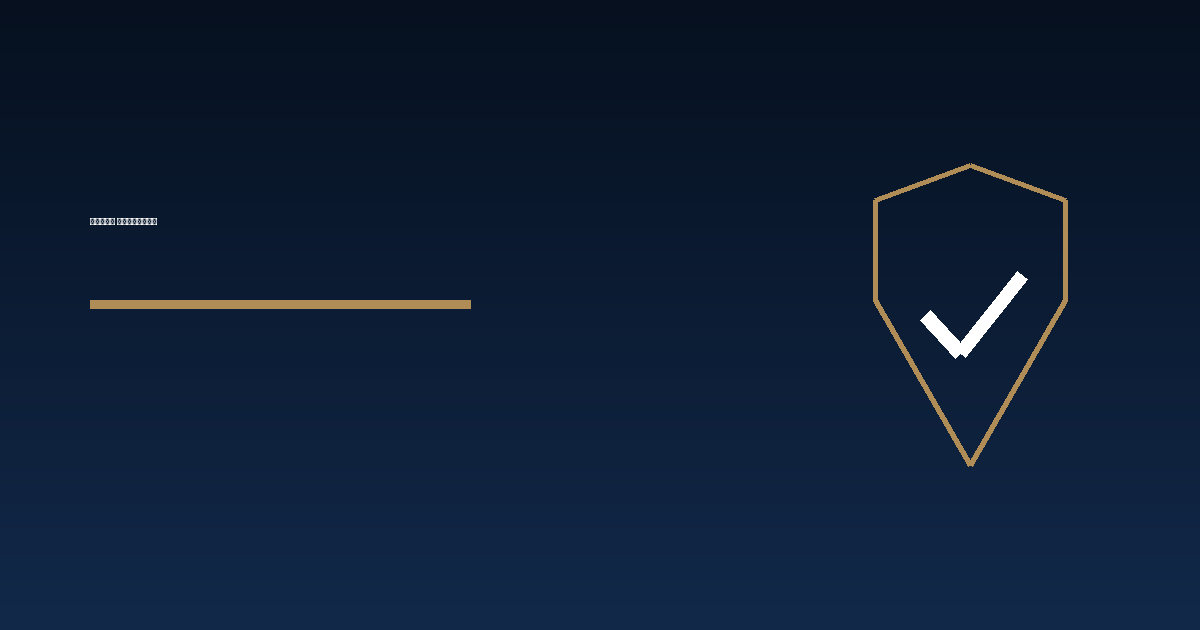
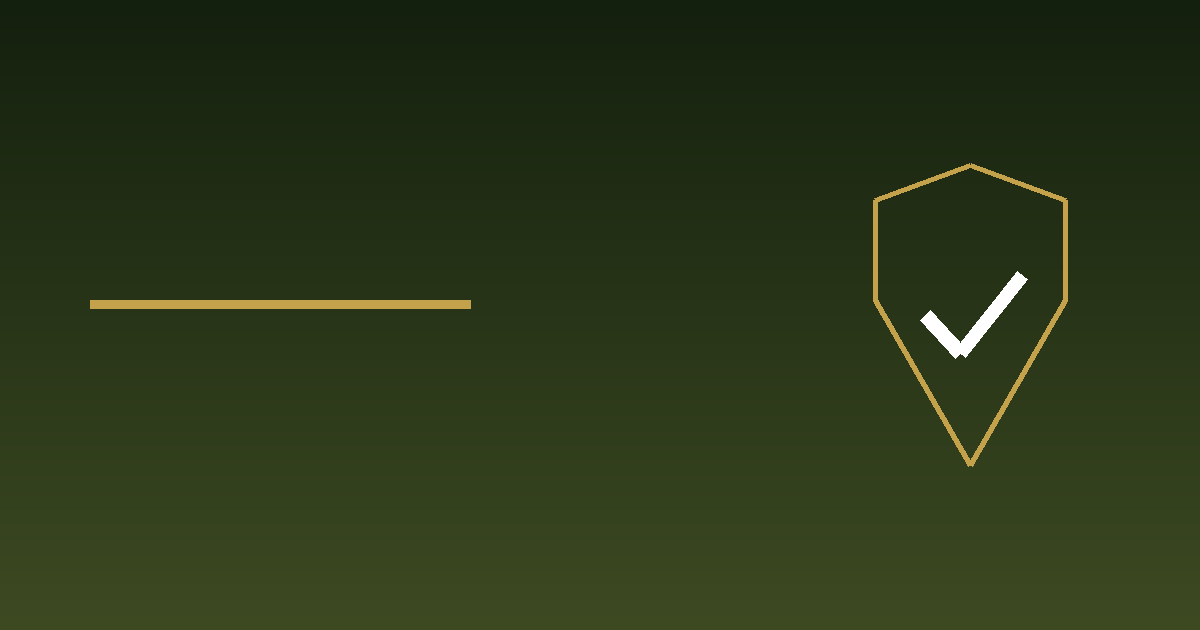
Update: Uploading the latest version (v3)

diff --git a/assets/css/main.css b/assets/css/main.css
@@ -1,16 +1,17 @@
 :root {
-  /* ــــ الهوية: كحلي بحري عميق + ذهبي برونزي مطفي (طابع طيران/VIP) ــــ */
-  --ink: #06101F;            /* كحلي شبه أسود — أعمق نقطة */
-  --royal: #12294A;          /* الكحلي البحري الأساسي */
-  --royal-700: #0C1E38;      /* كحلي أغمق للتدرّجات */
-  --royal-300: #8FA6C4;      /* كحلي فاتح للنصوص على خلفية داكنة (تباين آمن) */
-  --royal-50: #EEF2F8;       /* كحلي فاتح جداً للخلفيات */
-  --amber: #B08D57;          /* الذهبي البرونزي المطفي — لون التمييز (خلفيات/حدود) */
-  --amber-600: #866538;      /* برونزي غامق للنصوص والروابط على خلفية فاتحة (تباين آمن) */
-  --amber-700: #6E5230;      /* أغمق للـ hover */
-  --amber-50: #F7F1E8;       /* بيج برونزي فاتح جداً للخلفيات */
-  --slate: #56637A;          /* رمادي للنصوص الثانوية */
-  --line: #E1E6EE; --wash: #F6F8FB; --white: #FFFFFF; --ok: #1C7C54; --warn: #96753F;
+  /* ــــ الهوية: الأخضر الزيتوني الفخم + الذهبي الملكي + الكريمي (طابع سعودي رسمي) ــــ */
+  --ink: #14200E;            /* زيتوني شبه أسود — أعمق نقطة */
+  --royal: #3D4A22;          /* الزيتوني الداكن الأساسي */
+  --royal-700: #2E3818;      /* زيتوني أغمق للتدرّجات */
+  --royal-300: #C2CEA6;      /* زيتوني فاتح للنصوص على خلفية داكنة (تباين آمن) */
+  --royal-50: #F0F2E6;       /* زيتوني فاتح جداً للخلفيات */
+  --amber: #C4A24C;          /* الذهبي الملكي — لون التمييز (خلفيات/حدود) */
+  --amber-light: #D8BB6A;    /* ذهبي فاتح للنص على الزيتوني الداكن (تباين آمن) */
+  --amber-600: #8A6E24;      /* ذهبي غامق للنصوص والروابط على خلفية فاتحة (تباين آمن) */
+  --amber-700: #6E5620;      /* أغمق للـ hover */
+  --amber-50: #F7F1DF;       /* ذهبي فاتح جداً للخلفيات */
+  --slate: #565A48;          /* رمادي مخضرّ للنصوص الثانوية */
+  --line: #E6E7DB; --wash: #FBF8F0; --white: #FFFFFF; --ok: #4A6B1E; --warn: #8A6E24;
   --font: 'Almarai', system-ui, -apple-system, 'Segoe UI', sans-serif;
   --step--1: clamp(.78rem, .75rem + .15vw, .86rem);
   --step-0: clamp(.95rem, .92rem + .2vw, 1.05rem);
@@ -22,7 +23,7 @@
   --shadow-sm: 0 1px 2px rgba(11,18,32,.06), 0 2px 8px rgba(11,18,32,.04);
   --shadow: 0 4px 12px rgba(11,18,32,.07), 0 12px 32px rgba(11,18,32,.06);
   --shadow-lg: 0 10px 30px rgba(30,58,138,.12), 0 30px 70px rgba(11,18,32,.10);
-  --ring: 0 0 0 3px rgba(176,141,87,.35); --wrap: 1180px; --ease: cubic-bezier(.22,.61,.36,1);
+  --ring: 0 0 0 3px rgba(196,162,76,.35); --wrap: 1180px; --ease: cubic-bezier(.22,.61,.36,1);
 }
 * { box-sizing: border-box; margin: 0; padding: 0; }
 html { scroll-behavior: smooth; -webkit-text-size-adjust: 100%; }
@@ -36,8 +37,8 @@ ul, ol { list-style: none; }
 h1, h2, h3, h4 { line-height: 1.35; font-weight: 800; letter-spacing: -.01em; }
 h1 { font-size: var(--step-4); } h2 { font-size: var(--step-3); } h3 { font-size: var(--step-1); }
 p { color: var(--slate); } strong { color: var(--ink); font-weight: 700; }
-.eyebrow { display: inline-flex; align-items: center; gap: .5rem; font-size: var(--step--1); font-weight: 700; letter-spacing: .04em; color: var(--amber-600); background: var(--amber-50); padding: .4rem .85rem; border-radius: 999px; border: 1px solid rgba(176,141,87,.28); }
-.eyebrow--light { color: #FFD9BE; background: rgba(176,141,87,.14); border-color: rgba(176,141,87,.3); }
+.eyebrow { display: inline-flex; align-items: center; gap: .5rem; font-size: var(--step--1); font-weight: 700; letter-spacing: .04em; color: var(--amber-600); background: var(--amber-50); padding: .4rem .85rem; border-radius: 999px; border: 1px solid rgba(196,162,76,.28); }
+.eyebrow--light { color: var(--amber-light); background: rgba(196,162,76,.16); border-color: rgba(196,162,76,.35); }
 .lede { font-size: var(--step-1); color: var(--slate); line-height: 1.8; }
 .topbar { background: var(--ink); color: #C9D3E6; font-size: var(--step--1); padding: .5rem 0; }
 .topbar__row { display: flex; justify-content: space-between; align-items: center; gap: 1rem; flex-wrap: wrap; }
@@ -67,8 +68,8 @@ p { color: var(--slate); } strong { color: var(--ink); font-weight: 700; }
 .mobile-nav a:last-of-type { border-bottom: 0; }
 .btn { display: inline-flex; align-items: center; justify-content: center; gap: .55rem; padding: .85rem 1.4rem; border-radius: 12px; font-weight: 800; font-size: .95rem; border: 1px solid transparent; cursor: pointer; transition: transform .18s var(--ease), box-shadow .18s, background .18s; font-family: var(--font); line-height: 1; }
 .btn:hover { transform: translateY(-2px); } .btn:active { transform: translateY(0); }
-.btn--primary { background: var(--amber); color: var(--ink); box-shadow: 0 6px 18px rgba(176,141,87,.34); }
-.btn--primary:hover { background: var(--amber-600); color: var(--white); box-shadow: 0 10px 26px rgba(176,141,87,.42); }
+.btn--primary { background: var(--amber); color: var(--ink); box-shadow: 0 6px 18px rgba(196,162,76,.34); }
+.btn--primary:hover { background: var(--amber-600); color: var(--white); box-shadow: 0 10px 26px rgba(196,162,76,.42); }
 .btn--royal { background: var(--royal); color: var(--white); box-shadow: 0 6px 18px rgba(30,58,138,.28); }
 .btn--royal:hover { background: var(--royal-700); }
 .btn--ghost { background: var(--white); color: var(--royal); border-color: var(--line); box-shadow: var(--shadow-sm); }
@@ -76,11 +77,11 @@ p { color: var(--slate); } strong { color: var(--ink); font-weight: 700; }
 .btn--onDark { background: rgba(255,255,255,.1); color: var(--white); border-color: rgba(255,255,255,.25); }
 .btn--onDark:hover { background: rgba(255,255,255,.18); }
 .btn--sm { padding: .6rem 1rem; font-size: .85rem; } .btn--block { width: 100%; }
-.hero { position: relative; overflow: hidden; background: radial-gradient(1100px 520px at 85% -10%, rgba(176,141,87,.16), transparent 60%), radial-gradient(900px 500px at 5% 110%, rgba(147,169,224,.22), transparent 60%), linear-gradient(160deg, var(--ink) 0%, var(--royal-700) 55%, var(--royal) 100%); color: var(--white); padding: clamp(3rem, 7vw, 5.5rem) 0 clamp(3.5rem, 8vw, 6rem); }
+.hero { position: relative; overflow: hidden; background: radial-gradient(1100px 520px at 85% -10%, rgba(196,162,76,.16), transparent 60%), radial-gradient(900px 500px at 5% 110%, rgba(147,169,224,.22), transparent 60%), linear-gradient(160deg, var(--ink) 0%, var(--royal-700) 55%, var(--royal) 100%); color: var(--white); padding: clamp(3rem, 7vw, 5.5rem) 0 clamp(3.5rem, 8vw, 6rem); }
 .hero::after { content: ''; position: absolute; inset: 0; pointer-events: none; opacity: .5; background-image: linear-gradient(rgba(255,255,255,.045) 1px, transparent 1px), linear-gradient(90deg, rgba(255,255,255,.045) 1px, transparent 1px); background-size: 46px 46px; mask-image: radial-gradient(circle at 50% 40%, #000 20%, transparent 78%); -webkit-mask-image: radial-gradient(circle at 50% 40%, #000 20%, transparent 78%); }
 .hero__grid { position: relative; z-index: 2; display: grid; grid-template-columns: 1.15fr .85fr; gap: clamp(2rem, 5vw, 4rem); align-items: center; }
 .hero h1 { color: var(--white); margin: 1.1rem 0 1rem; }
-.hero h1 .accent { color: var(--amber); position: relative; white-space: nowrap; }
+.hero h1 .accent { color: var(--amber-light); position: relative; white-space: nowrap; }
 .hero h1 .accent::after { content: ''; position: absolute; inset-inline: 0; bottom: -.12em; height: .1em; background: var(--amber); border-radius: 4px; opacity: .55; }
 .hero p { color: #C6D2EA; font-size: var(--step-1); }
 .hero__cta { display: flex; gap: .75rem; flex-wrap: wrap; margin-top: 1.8rem; }
@@ -91,7 +92,7 @@ p { color: var(--slate); } strong { color: var(--ink); font-weight: 700; }
 .credential {
   position: relative; max-width: 380px; margin-inline: auto;
   background: linear-gradient(155deg, rgba(255,255,255,.07), rgba(255,255,255,.02));
-  border: 1px solid rgba(176,141,87,.35); border-radius: 18px;
+  border: 1px solid rgba(196,162,76,.35); border-radius: 18px;
   padding: 2rem 1.8rem; backdrop-filter: blur(6px); -webkit-backdrop-filter: blur(6px);
   box-shadow: 0 24px 60px rgba(0,0,0,.34);
 }
@@ -104,13 +105,13 @@ p { color: var(--slate); } strong { color: var(--ink); font-weight: 700; }
 .credential__badge {
   width: 52px; height: 52px; border-radius: 13px; flex-shrink: 0;
   display: grid; place-items: center; color: var(--amber);
-  background: rgba(176,141,87,.14); border: 1px solid rgba(176,141,87,.4);
+  background: rgba(196,162,76,.14); border: 1px solid rgba(196,162,76,.4);
 }
 .credential__title b { display: block; color: #fff; font-size: 1.05rem; font-weight: 800; line-height: 1.4; }
-.credential__title span { display: block; color: var(--amber); font-size: .72rem; font-weight: 700; letter-spacing: .12em; margin-top: .15rem; }
+.credential__title span { display: block; color: var(--amber-light); font-size: .72rem; font-weight: 700; letter-spacing: .12em; margin-top: .15rem; }
 .credential__list { display: grid; gap: .75rem; margin-top: 1.1rem; }
 .credential__item { display: flex; align-items: center; gap: .65rem; color: #E4EAF3; font-size: .9rem; font-weight: 600; }
-.credential__item svg { color: var(--amber); flex-shrink: 0; }
+.credential__item svg { color: var(--amber-light); flex-shrink: 0; }
 .section { padding: clamp(3rem, 7vw, 5.5rem) 0; }
 .section--wash { background: var(--wash); }
 .section--ink { background: var(--ink); color: var(--white); }
@@ -145,7 +146,7 @@ p { color: var(--slate); } strong { color: var(--ink); font-weight: 700; }
 .doclist { display: grid; gap: .6rem; }
 .doc { display: grid; grid-template-columns: auto 1fr; gap: .8rem; align-items: start; background: var(--white); border: 1px solid var(--line); border-radius: 12px; padding: .95rem 1.1rem; font-size: .93rem; }
 .doc__tick { color: var(--ok); flex-shrink: 0; margin-top: .15rem; }
-.doc--note { background: var(--amber-50); border-color: rgba(176,141,87,.28); }
+.doc--note { background: var(--amber-50); border-color: rgba(196,162,76,.28); }
 .doc--note .doc__tick { color: var(--amber-600); }
 .faq { display: grid; gap: .75rem; }
 .faq__item { background: var(--white); border: 1px solid var(--line); border-radius: var(--radius); overflow: hidden; transition: border-color .2s, box-shadow .2s; }
@@ -160,7 +161,7 @@ p { color: var(--slate); } strong { color: var(--ink); font-weight: 700; }
 .trust__item strong { display: block; font-size: var(--step-2); color: var(--royal); font-weight: 800; }
 .trust__item span { font-size: var(--step--1); color: var(--slate); font-weight: 700; }
 .cta-band { background: linear-gradient(140deg, var(--royal) 0%, var(--ink) 100%); border-radius: var(--radius-lg); padding: clamp(2rem, 5vw, 3.2rem); color: var(--white); text-align: center; position: relative; overflow: hidden; }
-.cta-band::before { content: ''; position: absolute; width: 380px; height: 380px; border-radius: 50%; background: radial-gradient(circle, rgba(176,141,87,.22), transparent 65%); top: -140px; inset-inline-end: -100px; }
+.cta-band::before { content: ''; position: absolute; width: 380px; height: 380px; border-radius: 50%; background: radial-gradient(circle, rgba(196,162,76,.22), transparent 65%); top: -140px; inset-inline-end: -100px; }
 .cta-band > * { position: relative; z-index: 2; }
 .cta-band h2 { color: var(--white); margin-bottom: .7rem; }
 .cta-band p { color: #C6D2EA; margin-bottom: 1.6rem; }
@@ -215,7 +216,7 @@ p { color: var(--slate); } strong { color: var(--ink); font-weight: 700; }
 .crumbs span[aria-current] { color: var(--ink); font-weight: 700; }
 .crumbs .sep { opacity: .45; }
 .pagehead { background: linear-gradient(150deg, var(--ink) 0%, var(--royal-700) 100%); color: var(--white); padding: clamp(2.2rem, 5vw, 3.6rem) 0; position: relative; overflow: hidden; }
-.pagehead::after { content: ''; position: absolute; width: 300px; height: 300px; border-radius: 50%; background: radial-gradient(circle, rgba(176,141,87,.2), transparent 65%); top: -110px; inset-inline-end: -60px; }
+.pagehead::after { content: ''; position: absolute; width: 300px; height: 300px; border-radius: 50%; background: radial-gradient(circle, rgba(196,162,76,.2), transparent 65%); top: -110px; inset-inline-end: -60px; }
 .pagehead > * { position: relative; z-index: 2; }
 .pagehead h1 { color: var(--white); margin: .9rem 0 .7rem; }
 .pagehead p { color: #C6D2EA; max-width: 660px; }
@@ -250,6 +251,8 @@ p { color: var(--slate); } strong { color: var(--ink); font-weight: 700; }
   .wrap, .wrap-narrow { width: 100% !important; max-width: 100% !important; margin: 0 !important; padding: 0 !important; }
   .section { padding: 0 !important; margin: 0 0 8pt !important; }
   .pagehead { padding: 0 !important; margin-bottom: 6pt !important; }
+  .pagehead h1, .pagehead p, .hero h1, .hero p, .hero h1 .accent,
+  .section--ink h2, .section--ink p, .card--feature h3, .card--feature p { color: #111 !important; }
 
   /* ترويسة المكتب أعلى الورقة */
   .print-only { display: block !important; }
@@ -268,7 +271,13 @@ p { color: var(--slate); } strong { color: var(--ink); font-weight: 700; }
   }
 
   /* العناوين */
-  h1 { font-size: 18pt !important; margin: 0 0 6pt !important; }
+  /* منع قص العناوين: إلغاء overflow و nowrap و ستايلات inline */
+  .pagehead, .section, .wrap, .wrap-narrow, .card, .credential, .hero,
+  div, section, article, aside, main { overflow: visible !important; }
+  * { white-space: normal !important; text-overflow: clip !important; max-width: none !important; }
+
+  h1, h2, h3, h4, .lede, .prose p, .prose li, strong { color: #111 !important; }
+  h1 { font-size: 18pt !important; margin: 0 0 6pt !important; font-weight: 800 !important; }
   h2 { font-size: 14pt !important; margin: 12pt 0 5pt !important; border: 0 !important; padding: 0 !important; }
   h3 { font-size: 12pt !important; margin: 8pt 0 3pt !important; }
   p, li { font-size: 11pt !important; }

diff --git a/assets/js/main.js b/assets/js/main.js
@@ -97,7 +97,57 @@
     input.addEventListener('keydown', function (e) { if (e.key === 'Escape') { box.classList.remove('show'); input.blur(); } });
   }
 
-  window.printPage = function () { window.print(); };
+  /* ————— الطباعة: تبني مستنداً نظيفاً مضموناً على أي جهاز ————— */
+  window.printPage = function () {
+    var main = document.getElementById('main');
+    if (!main) { window.print(); return; }
+
+    // عنوان الصفحة (من H1)
+    var h1 = main.querySelector('h1');
+    var pageTitle = h1 ? h1.textContent.trim() : document.title;
+
+    // اجمع الأقسام: كل عنوان H2/H3 مع قائمة الوثائق التي تليه
+    var html = '';
+    var blocks = main.querySelectorAll('h2, h3, .doc, .callout p, .lede');
+    blocks.forEach(function (el) {
+      var t = el.textContent.trim();
+      if (!t) return;
+      if (el.tagName === 'H2') html += '<h2>' + t + '</h2>';
+      else if (el.tagName === 'H3') html += '<h3>' + t + '</h3>';
+      else if (el.classList.contains('lede')) html += '<p class="lede">' + t + '</p>';
+      else if (el.classList.contains('doc')) html += '<div class="item"><span>&#10003;</span><p>' + t + '</p></div>';
+      else html += '<p class="note">' + t + '</p>';
+    });
+
+    var C = window.INJAZ || {};
+    var doc = '<!DOCTYPE html><html lang="ar" dir="rtl"><head><meta charset="UTF-8"><title>' + pageTitle + '</title>' +
+      '<style>' +
+      '@page{size:A4;margin:18mm 16mm}' +
+      '*{margin:0;padding:0;box-sizing:border-box;font-family:"Almarai",Arial,sans-serif}' +
+      'body{color:#111;line-height:1.7;font-size:12pt}' +
+      '.head{display:flex;justify-content:space-between;align-items:flex-start;border-bottom:2pt solid #111;padding-bottom:10pt;margin-bottom:16pt}' +
+      '.head .b{font-size:16pt;font-weight:800}.head .t{font-size:9pt;color:#444;margin-top:3pt}' +
+      '.head .c{font-size:9pt;text-align:left;line-height:1.7;color:#333}' +
+      'h1{font-size:18pt;margin-bottom:10pt}' +
+      'h2{font-size:14pt;margin:14pt 0 6pt;padding-bottom:3pt;border-bottom:1pt solid #ccc}' +
+      'h3{font-size:12.5pt;margin:10pt 0 4pt;color:#3D4A22}' +
+      '.lede{font-size:11.5pt;color:#333;margin-bottom:8pt}' +
+      '.note{font-size:10.5pt;color:#555;background:#f5f5ef;padding:6pt 9pt;border-right:3pt solid #C4A24C;margin:6pt 0}' +
+      '.item{display:flex;gap:7pt;align-items:flex-start;border:0.75pt solid #ccc;border-radius:4pt;padding:6pt 9pt;margin-bottom:5pt;page-break-inside:avoid}' +
+      '.item span{color:#4A6B1E;font-weight:800;flex-shrink:0}.item p{font-size:11pt}' +
+      '.foot{margin-top:18pt;padding-top:8pt;border-top:1pt solid #999;font-size:8.5pt;color:#666;text-align:center}' +
+      '</style></head><body>' +
+      '<div class="head"><div><div class="b">إنجاز السعودية</div><div class="t">مركز معتمد لإنجاز معاملات السفارة السعودية</div></div>' +
+      '<div class="c">الدوار الأول — جبل عمّان، عمّان<br>هاتف: ' + (C.phone || '') + '<br>saudiinjaz.com</div></div>' +
+      '<h1>' + pageTitle + '</h1>' + html +
+      '<div class="foot">هذه القائمة إرشادية عامة وقد تتغيّر المتطلبات حسب مسمّى التأشيرة. للتأكد من تفاصيل حالتك تواصل مع إنجاز السعودية · saudiinjaz.com</div>' +
+      '</body></html>';
+
+    var w = window.open('', '_blank');
+    if (!w) { window.print(); return; }
+    w.document.open(); w.document.write(doc); w.document.close();
+    w.onload = function () { setTimeout(function () { w.focus(); w.print(); }, 350); };
+  };
 
   function initReveal() {
     if (!('IntersectionObserver' in window)) return;

diff --git a/index.html b/index.html
@@ -26,7 +26,7 @@
 <link rel="icon" type="image/svg+xml" href="/assets/img/favicon.svg">
 <link rel="apple-touch-icon" href="/assets/img/logo.svg">
 <link rel="manifest" href="/manifest.webmanifest">
-<meta name="theme-color" content="#12294A">
+<meta name="theme-color" content="#3D4A22">
 <link rel="preconnect" href="https://fonts.googleapis.com">
 <link rel="preconnect" href="https://fonts.gstatic.com" crossorigin>
 <link href="https://fonts.googleapis.com/css2?family=Almarai:wght@300;400;700;800&display=swap" rel="stylesheet">
@@ -107,7 +107,7 @@
     <a href="/work-visa.html" class="card card--link"><div class="card__icon"><svg width="24" height="24" viewBox="0 0 24 24" fill="none" stroke="currentColor" stroke-width="2" stroke-linecap="round" stroke-linejoin="round"><path d="M17.8 19.2 16 11l3.5-3.5a2.1 2.1 0 0 0-3-3L13 8 4.8 6.2a.5.5 0 0 0-.5.8l3.5 4-2.3 2.3-2-.5a.5.5 0 0 0-.5.8L5 16l1.4 2.9a.5.5 0 0 0 .8-.4l-.5-2 2.3-2.3 4 3.5a.5.5 0 0 0 .8-.5z"/></svg></div><h3>تأشيرة العمل السعودية</h3><p>تجهيز ملف التأشيرة كاملاً حسب مسمّى مهنتك ومتطلباتها، ومتابعة الإجراء حتى الإصدار.</p><span class="card__link">التفاصيل والأوراق <svg width="15" height="15" viewBox="0 0 24 24" fill="none" stroke="currentColor" stroke-width="2.5" stroke-linecap="round" stroke-linejoin="round"><line x1="19" y1="12" x2="5" y2="12"/><polyline points="12 19 5 12 12 5"/></svg></span></a>
     <a href="/attestation.html" class="card card--link"><div class="card__icon"><svg width="24" height="24" viewBox="0 0 24 24" fill="none" stroke="currentColor" stroke-width="2" stroke-linecap="round" stroke-linejoin="round"><path d="M5 22h14"/><path d="M17.5 8a3.5 3.5 0 0 0-7 0c0 1.5.5 2 .5 3h6c0-1 .5-1.5.5-3z"/><rect x="4" y="14" width="16" height="5" rx="1.5"/><path d="M14 11V8"/></svg></div><h3>تصديق الشهادات والوثائق</h3><p>سلسلة التصديق كاملة: الجهة المُصدِرة، التعليم العالي، الخارجية الأردنية، ثم السفارة السعودية.</p><span class="card__link">التفاصيل والأوراق <svg width="15" height="15" viewBox="0 0 24 24" fill="none" stroke="currentColor" stroke-width="2.5" stroke-linecap="round" stroke-linejoin="round"><line x1="19" y1="12" x2="5" y2="12"/><polyline points="12 19 5 12 12 5"/></svg></span></a>
     <a href="/professional.html" class="card card--link"><div class="card__icon"><svg width="24" height="24" viewBox="0 0 24 24" fill="none" stroke="currentColor" stroke-width="2" stroke-linecap="round" stroke-linejoin="round"><circle cx="12" cy="9" r="6"/><polyline points="8.2 14.5 7 22 12 19.5 17 22 15.8 14.5"/></svg></div><h3>الاعتماد المهني QVP</h3><p>التحقق المهني لحملة الشهادات، والفحص المهني للمهن الحرفية — نرافقك في كل خطوة.</p><span class="card__link">التفاصيل والأوراق <svg width="15" height="15" viewBox="0 0 24 24" fill="none" stroke="currentColor" stroke-width="2.5" stroke-linecap="round" stroke-linejoin="round"><line x1="19" y1="12" x2="5" y2="12"/><polyline points="12 19 5 12 12 5"/></svg></span></a>
-    <a href="/companies.html" class="card card--link card--feature"><div class="card__icon"><svg width="24" height="24" viewBox="0 0 24 24" fill="none" stroke="currentColor" stroke-width="2" stroke-linecap="round" stroke-linejoin="round"><path d="M16 21v-2a4 4 0 0 0-4-4H6a4 4 0 0 0-4 4v2"/><circle cx="9" cy="7" r="4"/><path d="M22 21v-2a4 4 0 0 0-3-3.9"/><path d="M16 3.1a4 4 0 0 1 0 7.8"/></svg></div><h3>خدمات الشركات والمؤسسات</h3><p>باقات استقدام جماعي وتصديق بالجملة، مع مسؤول ملف مخصّص لشركتك ومتابعة دورية.</p><span class="card__link" style="color:#C9A46B">باقات الشركات <svg width="15" height="15" viewBox="0 0 24 24" fill="none" stroke="currentColor" stroke-width="2.5" stroke-linecap="round" stroke-linejoin="round"><line x1="19" y1="12" x2="5" y2="12"/><polyline points="12 19 5 12 12 5"/></svg></span></a>
+    <a href="/companies.html" class="card card--link card--feature"><div class="card__icon"><svg width="24" height="24" viewBox="0 0 24 24" fill="none" stroke="currentColor" stroke-width="2" stroke-linecap="round" stroke-linejoin="round"><path d="M16 21v-2a4 4 0 0 0-4-4H6a4 4 0 0 0-4 4v2"/><circle cx="9" cy="7" r="4"/><path d="M22 21v-2a4 4 0 0 0-3-3.9"/><path d="M16 3.1a4 4 0 0 1 0 7.8"/></svg></div><h3>خدمات الشركات والمؤسسات</h3><p>باقات استقدام جماعي وتصديق بالجملة، مع مسؤول ملف مخصّص لشركتك ومتابعة دورية.</p><span class="card__link" style="color:#D8BB6A">باقات الشركات <svg width="15" height="15" viewBox="0 0 24 24" fill="none" stroke="currentColor" stroke-width="2.5" stroke-linecap="round" stroke-linejoin="round"><line x1="19" y1="12" x2="5" y2="12"/><polyline points="12 19 5 12 12 5"/></svg></span></a>
     <a href="/required-docs.html" class="card card--link"><div class="card__icon"><svg width="24" height="24" viewBox="0 0 24 24" fill="none" stroke="currentColor" stroke-width="2" stroke-linecap="round" stroke-linejoin="round"><path d="M14 2H6a2 2 0 0 0-2 2v16a2 2 0 0 0 2 2h12a2 2 0 0 0 2-2V8z"/><polyline points="14 2 14 8 20 8"/><line x1="9" y1="13" x2="15" y2="13"/><line x1="9" y1="17" x2="13" y2="17"/></svg></div><h3>الأوراق المطلوبة</h3><p>ملخّص واضح للوثائق حسب حالتك: عامل، مهني، مهندس، طبيب، أو حرفي.</p><span class="card__link">اعرف أوراقك <svg width="15" height="15" viewBox="0 0 24 24" fill="none" stroke="currentColor" stroke-width="2.5" stroke-linecap="round" stroke-linejoin="round"><line x1="19" y1="12" x2="5" y2="12"/><polyline points="12 19 5 12 12 5"/></svg></span></a>
     <a href="/how-we-work.html" class="card card--link"><div class="card__icon"><svg width="24" height="24" viewBox="0 0 24 24" fill="none" stroke="currentColor" stroke-width="2" stroke-linecap="round" stroke-linejoin="round"><circle cx="6" cy="19" r="3"/><path d="M9 19h5.5a3.5 3.5 0 0 0 0-7h-5a3.5 3.5 0 0 1 0-7H15"/><circle cx="18" cy="5" r="3"/></svg></div><h3>كيف نعمل</h3><p>آلية عمل واضحة من أول اتصال حتى تسليم المعاملة — بلا مفاجآت ولا رسوم خفية.</p><span class="card__link">آلية العمل <svg width="15" height="15" viewBox="0 0 24 24" fill="none" stroke="currentColor" stroke-width="2.5" stroke-linecap="round" stroke-linejoin="round"><line x1="19" y1="12" x2="5" y2="12"/><polyline points="12 19 5 12 12 5"/></svg></span></a>
   </div>

diff --git a/services.html b/services.html
@@ -26,7 +26,7 @@
 <link rel="icon" type="image/svg+xml" href="/assets/img/favicon.svg">
 <link rel="apple-touch-icon" href="/assets/img/logo.svg">
 <link rel="manifest" href="/manifest.webmanifest">
-<meta name="theme-color" content="#12294A">
+<meta name="theme-color" content="#3D4A22">
 <link rel="preconnect" href="https://fonts.googleapis.com">
 <link rel="preconnect" href="https://fonts.gstatic.com" crossorigin>
 <link href="https://fonts.googleapis.com/css2?family=Almarai:wght@300;400;700;800&display=swap" rel="stylesheet">
@@ -62,7 +62,7 @@
     <a href="/work-visa.html" class="card card--link"><div class="card__icon"><svg width="24" height="24" viewBox="0 0 24 24" fill="none" stroke="currentColor" stroke-width="2" stroke-linecap="round" stroke-linejoin="round"><path d="M17.8 19.2 16 11l3.5-3.5a2.1 2.1 0 0 0-3-3L13 8 4.8 6.2a.5.5 0 0 0-.5.8l3.5 4-2.3 2.3-2-.5a.5.5 0 0 0-.5.8L5 16l1.4 2.9a.5.5 0 0 0 .8-.4l-.5-2 2.3-2.3 4 3.5a.5.5 0 0 0 .8-.5z"/></svg></div><h3>تأشيرة العمل السعودية</h3><p>تجهيز الملف حسب مسمّى مهنتك ومتطلباتها، ومتابعة الإجراء حتى الإصدار. الرسوم التقريبية 150–450 د.أ للتأشيرة وحدها.</p><span class="card__link">الأوراق والرسوم <svg width="15" height="15" viewBox="0 0 24 24" fill="none" stroke="currentColor" stroke-width="2.5" stroke-linecap="round" stroke-linejoin="round"><line x1="19" y1="12" x2="5" y2="12"/><polyline points="12 19 5 12 12 5"/></svg></span></a>
     <a href="/attestation.html" class="card card--link"><div class="card__icon"><svg width="24" height="24" viewBox="0 0 24 24" fill="none" stroke="currentColor" stroke-width="2" stroke-linecap="round" stroke-linejoin="round"><path d="M5 22h14"/><path d="M17.5 8a3.5 3.5 0 0 0-7 0c0 1.5.5 2 .5 3h6c0-1 .5-1.5.5-3z"/><rect x="4" y="14" width="16" height="5" rx="1.5"/><path d="M14 11V8"/></svg></div><h3>تصديق الشهادات والوثائق</h3><p>سلسلة التصديق الخماسية كاملة — ننجزها نيابةً عنك دون حاجة لتنقّلك بين الجهات.</p><span class="card__link">سلسلة التصديق <svg width="15" height="15" viewBox="0 0 24 24" fill="none" stroke="currentColor" stroke-width="2.5" stroke-linecap="round" stroke-linejoin="round"><line x1="19" y1="12" x2="5" y2="12"/><polyline points="12 19 5 12 12 5"/></svg></span></a>
     <a href="/professional.html" class="card card--link"><div class="card__icon"><svg width="24" height="24" viewBox="0 0 24 24" fill="none" stroke="currentColor" stroke-width="2" stroke-linecap="round" stroke-linejoin="round"><circle cx="12" cy="9" r="6"/><polyline points="8.2 14.5 7 22 12 19.5 17 22 15.8 14.5"/></svg></div><h3>الاعتماد المهني QVP</h3><p>التحقق المهني لحملة الشهادات، والفحص المهني للمهن الحرفية — نرافقك في المسار الصحيح.</p><span class="card__link">المسارات والمتطلبات <svg width="15" height="15" viewBox="0 0 24 24" fill="none" stroke="currentColor" stroke-width="2.5" stroke-linecap="round" stroke-linejoin="round"><line x1="19" y1="12" x2="5" y2="12"/><polyline points="12 19 5 12 12 5"/></svg></span></a>
-    <a href="/companies.html" class="card card--link card--feature"><div class="card__icon"><svg width="24" height="24" viewBox="0 0 24 24" fill="none" stroke="currentColor" stroke-width="2" stroke-linecap="round" stroke-linejoin="round"><path d="M16 21v-2a4 4 0 0 0-4-4H6a4 4 0 0 0-4 4v2"/><circle cx="9" cy="7" r="4"/><path d="M22 21v-2a4 4 0 0 0-3-3.9"/><path d="M16 3.1a4 4 0 0 1 0 7.8"/></svg></div><h3>خدمات الشركات</h3><p>استقدام جماعي وتصديق بالجملة ومسؤول ملف مخصّص — بأسعار خاصة من 5 موظفين فأكثر.</p><span class="card__link" style="color:#C9A46B">باقات المؤسسات <svg width="15" height="15" viewBox="0 0 24 24" fill="none" stroke="currentColor" stroke-width="2.5" stroke-linecap="round" stroke-linejoin="round"><line x1="19" y1="12" x2="5" y2="12"/><polyline points="12 19 5 12 12 5"/></svg></span></a>
+    <a href="/companies.html" class="card card--link card--feature"><div class="card__icon"><svg width="24" height="24" viewBox="0 0 24 24" fill="none" stroke="currentColor" stroke-width="2" stroke-linecap="round" stroke-linejoin="round"><path d="M16 21v-2a4 4 0 0 0-4-4H6a4 4 0 0 0-4 4v2"/><circle cx="9" cy="7" r="4"/><path d="M22 21v-2a4 4 0 0 0-3-3.9"/><path d="M16 3.1a4 4 0 0 1 0 7.8"/></svg></div><h3>خدمات الشركات</h3><p>استقدام جماعي وتصديق بالجملة ومسؤول ملف مخصّص — بأسعار خاصة من 5 موظفين فأكثر.</p><span class="card__link" style="color:#D8BB6A">باقات المؤسسات <svg width="15" height="15" viewBox="0 0 24 24" fill="none" stroke="currentColor" stroke-width="2.5" stroke-linecap="round" stroke-linejoin="round"><line x1="19" y1="12" x2="5" y2="12"/><polyline points="12 19 5 12 12 5"/></svg></span></a>
   </div>
   <div class="grid grid--2" style="margin-top:1.15rem">
     <a href="/required-docs.html" class="card card--link"><div class="card__icon"><svg width="24" height="24" viewBox="0 0 24 24" fill="none" stroke="currentColor" stroke-width="2" stroke-linecap="round" stroke-linejoin="round"><path d="M14 2H6a2 2 0 0 0-2 2v16a2 2 0 0 0 2 2h12a2 2 0 0 0 2-2V8z"/><polyline points="14 2 14 8 20 8"/><line x1="9" y1="13" x2="15" y2="13"/><line x1="9" y1="17" x2="13" y2="17"/></svg></div><h3>الأوراق المطلوبة</h3><p>ملخّص واضح للوثائق حسب حالتك ومسمّاك الوظيفي.</p><span class="card__link">اعرف أوراقك <svg width="15" height="15" viewBox="0 0 24 24" fill="none" stroke="currentColor" stroke-width="2.5" stroke-linecap="round" stroke-linejoin="round"><line x1="19" y1="12" x2="5" y2="12"/><polyline points="12 19 5 12 12 5"/></svg></span></a>

diff --git a/404.html b/404.html
@@ -26,7 +26,7 @@
 <link rel="icon" type="image/svg+xml" href="/assets/img/favicon.svg">
 <link rel="apple-touch-icon" href="/assets/img/logo.svg">
 <link rel="manifest" href="/manifest.webmanifest">
-<meta name="theme-color" content="#12294A">
+<meta name="theme-color" content="#3D4A22">
 <link rel="preconnect" href="https://fonts.googleapis.com">
 <link rel="preconnect" href="https://fonts.gstatic.com" crossorigin>
 <link href="https://fonts.googleapis.com/css2?family=Almarai:wght@300;400;700;800&display=swap" rel="stylesheet">

diff --git a/about.html b/about.html
@@ -26,7 +26,7 @@
 <link rel="icon" type="image/svg+xml" href="/assets/img/favicon.svg">
 <link rel="apple-touch-icon" href="/assets/img/logo.svg">
 <link rel="manifest" href="/manifest.webmanifest">
-<meta name="theme-color" content="#12294A">
+<meta name="theme-color" content="#3D4A22">
 <link rel="preconnect" href="https://fonts.googleapis.com">
 <link rel="preconnect" href="https://fonts.gstatic.com" crossorigin>
 <link href="https://fonts.googleapis.com/css2?family=Almarai:wght@300;400;700;800&display=swap" rel="stylesheet">

diff --git a/attestation.html b/attestation.html
@@ -26,7 +26,7 @@
 <link rel="icon" type="image/svg+xml" href="/assets/img/favicon.svg">
 <link rel="apple-touch-icon" href="/assets/img/logo.svg">
 <link rel="manifest" href="/manifest.webmanifest">
-<meta name="theme-color" content="#12294A">
+<meta name="theme-color" content="#3D4A22">
 <link rel="preconnect" href="https://fonts.googleapis.com">
 <link rel="preconnect" href="https://fonts.gstatic.com" crossorigin>
 <link href="https://fonts.googleapis.com/css2?family=Almarai:wght@300;400;700;800&display=swap" rel="stylesheet">

diff --git a/companies.html b/companies.html
@@ -26,7 +26,7 @@
 <link rel="icon" type="image/svg+xml" href="/assets/img/favicon.svg">
 <link rel="apple-touch-icon" href="/assets/img/logo.svg">
 <link rel="manifest" href="/manifest.webmanifest">
-<meta name="theme-color" content="#12294A">
+<meta name="theme-color" content="#3D4A22">
 <link rel="preconnect" href="https://fonts.googleapis.com">
 <link rel="preconnect" href="https://fonts.gstatic.com" crossorigin>
 <link href="https://fonts.googleapis.com/css2?family=Almarai:wght@300;400;700;800&display=swap" rel="stylesheet">

diff --git a/contact.html b/contact.html
@@ -26,7 +26,7 @@
 <link rel="icon" type="image/svg+xml" href="/assets/img/favicon.svg">
 <link rel="apple-touch-icon" href="/assets/img/logo.svg">
 <link rel="manifest" href="/manifest.webmanifest">
-<meta name="theme-color" content="#12294A">
+<meta name="theme-color" content="#3D4A22">
 <link rel="preconnect" href="https://fonts.googleapis.com">
 <link rel="preconnect" href="https://fonts.gstatic.com" crossorigin>
 <link href="https://fonts.googleapis.com/css2?family=Almarai:wght@300;400;700;800&display=swap" rel="stylesheet">

diff --git a/disclaimer.html b/disclaimer.html
@@ -26,7 +26,7 @@
 <link rel="icon" type="image/svg+xml" href="/assets/img/favicon.svg">
 <link rel="apple-touch-icon" href="/assets/img/logo.svg">
 <link rel="manifest" href="/manifest.webmanifest">
-<meta name="theme-color" content="#12294A">
+<meta name="theme-color" content="#3D4A22">
 <link rel="preconnect" href="https://fonts.googleapis.com">
 <link rel="preconnect" href="https://fonts.gstatic.com" crossorigin>
 <link href="https://fonts.googleapis.com/css2?family=Almarai:wght@300;400;700;800&display=swap" rel="stylesheet">

diff --git a/faq.html b/faq.html
@@ -26,7 +26,7 @@
 <link rel="icon" type="image/svg+xml" href="/assets/img/favicon.svg">
 <link rel="apple-touch-icon" href="/assets/img/logo.svg">
 <link rel="manifest" href="/manifest.webmanifest">
-<meta name="theme-color" content="#12294A">
+<meta name="theme-color" content="#3D4A22">
 <link rel="preconnect" href="https://fonts.googleapis.com">
 <link rel="preconnect" href="https://fonts.gstatic.com" crossorigin>
 <link href="https://fonts.googleapis.com/css2?family=Almarai:wght@300;400;700;800&display=swap" rel="stylesheet">

diff --git a/how-we-work.html b/how-we-work.html
@@ -26,7 +26,7 @@
 <link rel="icon" type="image/svg+xml" href="/assets/img/favicon.svg">
 <link rel="apple-touch-icon" href="/assets/img/logo.svg">
 <link rel="manifest" href="/manifest.webmanifest">
-<meta name="theme-color" content="#12294A">
+<meta name="theme-color" content="#3D4A22">
 <link rel="preconnect" href="https://fonts.googleapis.com">
 <link rel="preconnect" href="https://fonts.gstatic.com" crossorigin>
 <link href="https://fonts.googleapis.com/css2?family=Almarai:wght@300;400;700;800&display=swap" rel="stylesheet">